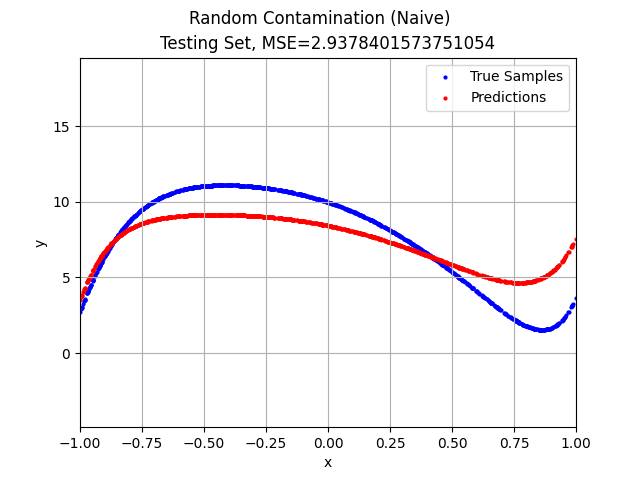
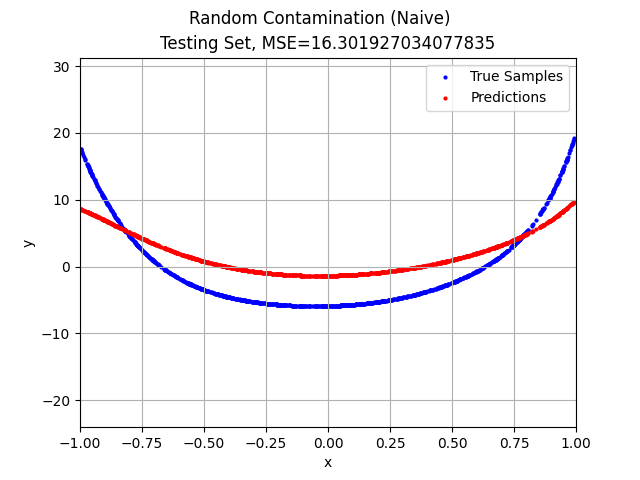
Parallel-line Contamination

diff --git a/tests/parallel_line_contamination.py b/tests/parallel_line_contamination.py
@@ -11,16 +11,12 @@ training_size = 1000
 x_training, y_training = generate_random_samples(w, 1, training_size)
 contamination_size = ceil(epsilon * training_size)
 contamination_indices = rng.choice(training_size, contamination_size, False)
-x_contamination = rng.uniform(-1, 1, contamination_size)
-y_contamination = rng.uniform(
-    y_training.min(), y_training.max(), contamination_size)
-x_training[contamination_indices] = x_contamination
-y_training[contamination_indices] = y_contamination
+y_training[contamination_indices] += y_training.max() - y_training.min()
 
 x_testing, y_testing = generate_random_samples(w, 0, 1000)
 
-test_name = "Random Contamination"
-dirname = "random_contamination"
+test_name = "Parallel Line Contamination"
+dirname = "parallel_line_contamination"
 markdown_str = f"| {test_name} |"
 markdown_str += test_naive(
     power,

diff --git a/tests/__main__.py b/tests/__main__.py
@@ -1,1 +1,2 @@
 import tests.random_contamination
+import tests.parallel_line_contamination

diff --git a/README.md b/README.md
@@ -37,6 +37,7 @@ For all the tests, we were fitting on 9-degree polynomials (with 10 mutually ind
 | Test Name | Naive Training | Naive Testing | Huber Loss Training | Huber Loss Testing | ε-trimmed Huber Loss Training | ε-trimmed Huber Loss Testing | Mean-kernel Preprocessor Training | Mean-kernel Preprocessor Testing | ε-trimmed Huber Loss with Mean-kernel Preprocessor Training | ε-trimmed Huber Loss with Mean-kernel Preprocessor Testing |
 | :-: | :-: | :-: | :-: | :-: | :-: | :-: | :-: | :-: | :-: | :-: |
 | Random Contamination | ![](test_results/random_contamination/naive/training.png) | ![](test_results/random_contamination/naive/testing.png) | ![](test_results/random_contamination/huber_loss/training.png) | ![](test_results/random_contamination/huber_loss/testing.png) | ![](test_results/random_contamination/epsilon_trimmed_huber_loss/training.png) | ![](test_results/random_contamination/epsilon_trimmed_huber_loss/testing.png) | ![](test_results/random_contamination/mean_kernel_preprocessor/training.png) | ![](test_results/random_contamination/mean_kernel_preprocessor/testing.png) | ![](test_results/random_contamination/epsilon_trimmed_huber_loss_with_mean_kernel_preprocessor/training.png) | ![](test_results/random_contamination/epsilon_trimmed_huber_loss_with_mean_kernel_preprocessor/testing.png) |
+| Parallel Line Contamination | ![](test_results/parallel_line_contamination/naive/training.png) | ![](test_results/parallel_line_contamination/naive/testing.png) | ![](test_results/parallel_line_contamination/huber_loss/training.png) | ![](test_results/parallel_line_contamination/huber_loss/testing.png) | ![](test_results/parallel_line_contamination/epsilon_trimmed_huber_loss/training.png) | ![](test_results/parallel_line_contamination/epsilon_trimmed_huber_loss/testing.png) | ![](test_results/parallel_line_contamination/mean_kernel_preprocessor/training.png) | ![](test_results/parallel_line_contamination/mean_kernel_preprocessor/testing.png) | ![](test_results/parallel_line_contamination/epsilon_trimmed_huber_loss_with_mean_kernel_preprocessor/training.png) | ![](test_results/parallel_line_contamination/epsilon_trimmed_huber_loss_with_mean_kernel_preprocessor/testing.png) |
 | <!-- GitHub does not render the table cell widths correctly --> | &nbsp;&nbsp;&nbsp;&nbsp;&nbsp;&nbsp;&nbsp;&nbsp;&nbsp;&nbsp;&nbsp;&nbsp;&nbsp;&nbsp;&nbsp;&nbsp;&nbsp;&nbsp;&nbsp;&nbsp;&nbsp;&nbsp;&nbsp;&nbsp;&nbsp;&nbsp;&nbsp;&nbsp;&nbsp;&nbsp;&nbsp;&nbsp;&nbsp;&nbsp;&nbsp;&nbsp;&nbsp;&nbsp;&nbsp;&nbsp;&nbsp;&nbsp;&nbsp;&nbsp;&nbsp;&nbsp;&nbsp;&nbsp;&nbsp;&nbsp;&nbsp;&nbsp;&nbsp;&nbsp;&nbsp;&nbsp;&nbsp;&nbsp;&nbsp;&nbsp;&nbsp;&nbsp;&nbsp;&nbsp; | &nbsp;&nbsp;&nbsp;&nbsp;&nbsp;&nbsp;&nbsp;&nbsp;&nbsp;&nbsp;&nbsp;&nbsp;&nbsp;&nbsp;&nbsp;&nbsp;&nbsp;&nbsp;&nbsp;&nbsp;&nbsp;&nbsp;&nbsp;&nbsp;&nbsp;&nbsp;&nbsp;&nbsp;&nbsp;&nbsp;&nbsp;&nbsp;&nbsp;&nbsp;&nbsp;&nbsp;&nbsp;&nbsp;&nbsp;&nbsp;&nbsp;&nbsp;&nbsp;&nbsp;&nbsp;&nbsp;&nbsp;&nbsp;&nbsp;&nbsp;&nbsp;&nbsp;&nbsp;&nbsp;&nbsp;&nbsp;&nbsp;&nbsp;&nbsp;&nbsp;&nbsp;&nbsp;&nbsp;&nbsp; | &nbsp;&nbsp;&nbsp;&nbsp;&nbsp;&nbsp;&nbsp;&nbsp;&nbsp;&nbsp;&nbsp;&nbsp;&nbsp;&nbsp;&nbsp;&nbsp;&nbsp;&nbsp;&nbsp;&nbsp;&nbsp;&nbsp;&nbsp;&nbsp;&nbsp;&nbsp;&nbsp;&nbsp;&nbsp;&nbsp;&nbsp;&nbsp;&nbsp;&nbsp;&nbsp;&nbsp;&nbsp;&nbsp;&nbsp;&nbsp;&nbsp;&nbsp;&nbsp;&nbsp;&nbsp;&nbsp;&nbsp;&nbsp;&nbsp;&nbsp;&nbsp;&nbsp;&nbsp;&nbsp;&nbsp;&nbsp;&nbsp;&nbsp;&nbsp;&nbsp;&nbsp;&nbsp;&nbsp;&nbsp; | &nbsp;&nbsp;&nbsp;&nbsp;&nbsp;&nbsp;&nbsp;&nbsp;&nbsp;&nbsp;&nbsp;&nbsp;&nbsp;&nbsp;&nbsp;&nbsp;&nbsp;&nbsp;&nbsp;&nbsp;&nbsp;&nbsp;&nbsp;&nbsp;&nbsp;&nbsp;&nbsp;&nbsp;&nbsp;&nbsp;&nbsp;&nbsp;&nbsp;&nbsp;&nbsp;&nbsp;&nbsp;&nbsp;&nbsp;&nbsp;&nbsp;&nbsp;&nbsp;&nbsp;&nbsp;&nbsp;&nbsp;&nbsp;&nbsp;&nbsp;&nbsp;&nbsp;&nbsp;&nbsp;&nbsp;&nbsp;&nbsp;&nbsp;&nbsp;&nbsp;&nbsp;&nbsp;&nbsp;&nbsp; | &nbsp;&nbsp;&nbsp;&nbsp;&nbsp;&nbsp;&nbsp;&nbsp;&nbsp;&nbsp;&nbsp;&nbsp;&nbsp;&nbsp;&nbsp;&nbsp;&nbsp;&nbsp;&nbsp;&nbsp;&nbsp;&nbsp;&nbsp;&nbsp;&nbsp;&nbsp;&nbsp;&nbsp;&nbsp;&nbsp;&nbsp;&nbsp;&nbsp;&nbsp;&nbsp;&nbsp;&nbsp;&nbsp;&nbsp;&nbsp;&nbsp;&nbsp;&nbsp;&nbsp;&nbsp;&nbsp;&nbsp;&nbsp;&nbsp;&nbsp;&nbsp;&nbsp;&nbsp;&nbsp;&nbsp;&nbsp;&nbsp;&nbsp;&nbsp;&nbsp;&nbsp;&nbsp;&nbsp;&nbsp; | &nbsp;&nbsp;&nbsp;&nbsp;&nbsp;&nbsp;&nbsp;&nbsp;&nbsp;&nbsp;&nbsp;&nbsp;&nbsp;&nbsp;&nbsp;&nbsp;&nbsp;&nbsp;&nbsp;&nbsp;&nbsp;&nbsp;&nbsp;&nbsp;&nbsp;&nbsp;&nbsp;&nbsp;&nbsp;&nbsp;&nbsp;&nbsp;&nbsp;&nbsp;&nbsp;&nbsp;&nbsp;&nbsp;&nbsp;&nbsp;&nbsp;&nbsp;&nbsp;&nbsp;&nbsp;&nbsp;&nbsp;&nbsp;&nbsp;&nbsp;&nbsp;&nbsp;&nbsp;&nbsp;&nbsp;&nbsp;&nbsp;&nbsp;&nbsp;&nbsp;&nbsp;&nbsp;&nbsp;&nbsp; | &nbsp;&nbsp;&nbsp;&nbsp;&nbsp;&nbsp;&nbsp;&nbsp;&nbsp;&nbsp;&nbsp;&nbsp;&nbsp;&nbsp;&nbsp;&nbsp;&nbsp;&nbsp;&nbsp;&nbsp;&nbsp;&nbsp;&nbsp;&nbsp;&nbsp;&nbsp;&nbsp;&nbsp;&nbsp;&nbsp;&nbsp;&nbsp;&nbsp;&nbsp;&nbsp;&nbsp;&nbsp;&nbsp;&nbsp;&nbsp;&nbsp;&nbsp;&nbsp;&nbsp;&nbsp;&nbsp;&nbsp;&nbsp;&nbsp;&nbsp;&nbsp;&nbsp;&nbsp;&nbsp;&nbsp;&nbsp;&nbsp;&nbsp;&nbsp;&nbsp;&nbsp;&nbsp;&nbsp;&nbsp; | &nbsp;&nbsp;&nbsp;&nbsp;&nbsp;&nbsp;&nbsp;&nbsp;&nbsp;&nbsp;&nbsp;&nbsp;&nbsp;&nbsp;&nbsp;&nbsp;&nbsp;&nbsp;&nbsp;&nbsp;&nbsp;&nbsp;&nbsp;&nbsp;&nbsp;&nbsp;&nbsp;&nbsp;&nbsp;&nbsp;&nbsp;&nbsp;&nbsp;&nbsp;&nbsp;&nbsp;&nbsp;&nbsp;&nbsp;&nbsp;&nbsp;&nbsp;&nbsp;&nbsp;&nbsp;&nbsp;&nbsp;&nbsp;&nbsp;&nbsp;&nbsp;&nbsp;&nbsp;&nbsp;&nbsp;&nbsp;&nbsp;&nbsp;&nbsp;&nbsp;&nbsp;&nbsp;&nbsp;&nbsp; | &nbsp;&nbsp;&nbsp;&nbsp;&nbsp;&nbsp;&nbsp;&nbsp;&nbsp;&nbsp;&nbsp;&nbsp;&nbsp;&nbsp;&nbsp;&nbsp;&nbsp;&nbsp;&nbsp;&nbsp;&nbsp;&nbsp;&nbsp;&nbsp;&nbsp;&nbsp;&nbsp;&nbsp;&nbsp;&nbsp;&nbsp;&nbsp;&nbsp;&nbsp;&nbsp;&nbsp;&nbsp;&nbsp;&nbsp;&nbsp;&nbsp;&nbsp;&nbsp;&nbsp;&nbsp;&nbsp;&nbsp;&nbsp;&nbsp;&nbsp;&nbsp;&nbsp;&nbsp;&nbsp;&nbsp;&nbsp;&nbsp;&nbsp;&nbsp;&nbsp;&nbsp;&nbsp;&nbsp;&nbsp; | &nbsp;&nbsp;&nbsp;&nbsp;&nbsp;&nbsp;&nbsp;&nbsp;&nbsp;&nbsp;&nbsp;&nbsp;&nbsp;&nbsp;&nbsp;&nbsp;&nbsp;&nbsp;&nbsp;&nbsp;&nbsp;&nbsp;&nbsp;&nbsp;&nbsp;&nbsp;&nbsp;&nbsp;&nbsp;&nbsp;&nbsp;&nbsp;&nbsp;&nbsp;&nbsp;&nbsp;&nbsp;&nbsp;&nbsp;&nbsp;&nbsp;&nbsp;&nbsp;&nbsp;&nbsp;&nbsp;&nbsp;&nbsp;&nbsp;&nbsp;&nbsp;&nbsp;&nbsp;&nbsp;&nbsp;&nbsp;&nbsp;&nbsp;&nbsp;&nbsp;&nbsp;&nbsp;&nbsp;&nbsp; |
 
 </div>
